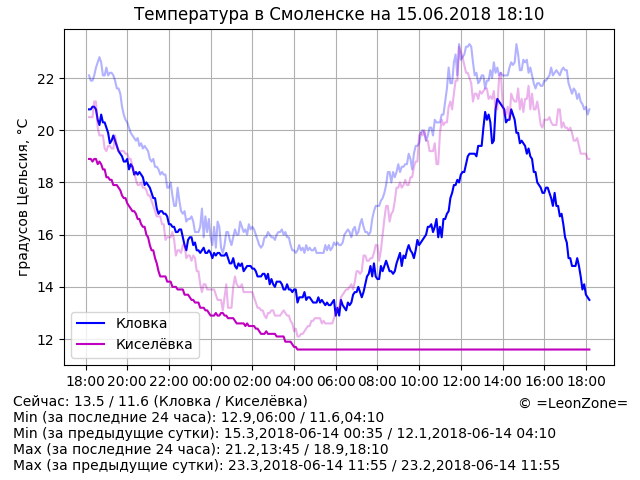
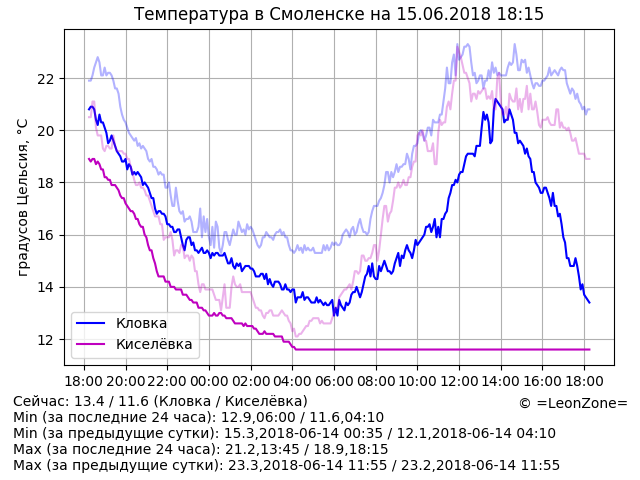
Update data

Changed region(s): [[0.125, 0.0625, 0.9375, 0.75], [0.0938, 0.7812, 0.9688, 0.8125], [0.5938, 0.9062, 0.625, 0.9375]]

diff --git a/index.html b/index.html
@@ -14,10 +14,10 @@
 	<p align="center"><script>document.write("<img src=\"graph.png?rnd="+Math.random()+"\" alt=\"Температура в Смоленске\" align=\"middle\" width=\"640\" height=\"480\" />")</script>
 	<p hidden="true">
 <!-- textinfo -->
-Сейчас: 13.5 / 11.6 (Кловка / Киселёвка)
+Сейчас: 13.4 / 11.6 (Кловка / Киселёвка)
 Min (за последние 24 часа): 12.9,06:00 / 11.6,04:10
 Min (за предыдущие сутки): 15.3,2018-06-14 00:35 / 12.1,2018-06-14 04:10
-Max (за последние 24 часа): 21.2,13:45 / 18.9,18:10
+Max (за последние 24 часа): 21.2,13:45 / 18.9,18:15
 Max (за предыдущие сутки): 23.3,2018-06-14 11:55 / 23.2,2018-06-14 11:55
 <!-- /textinfo -->
 	<footer hidden="true">© =LeonZone=</footer>
